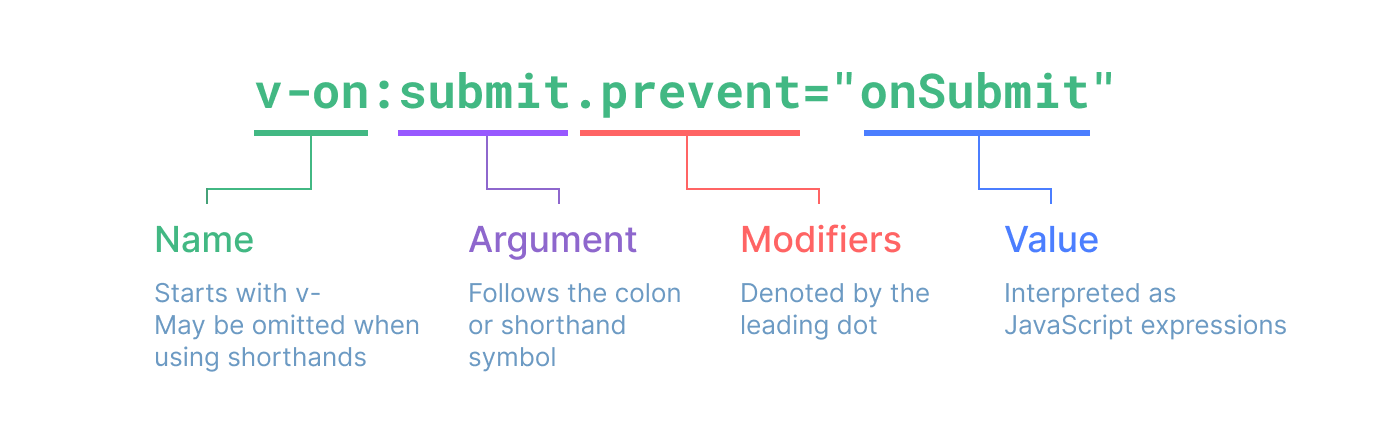
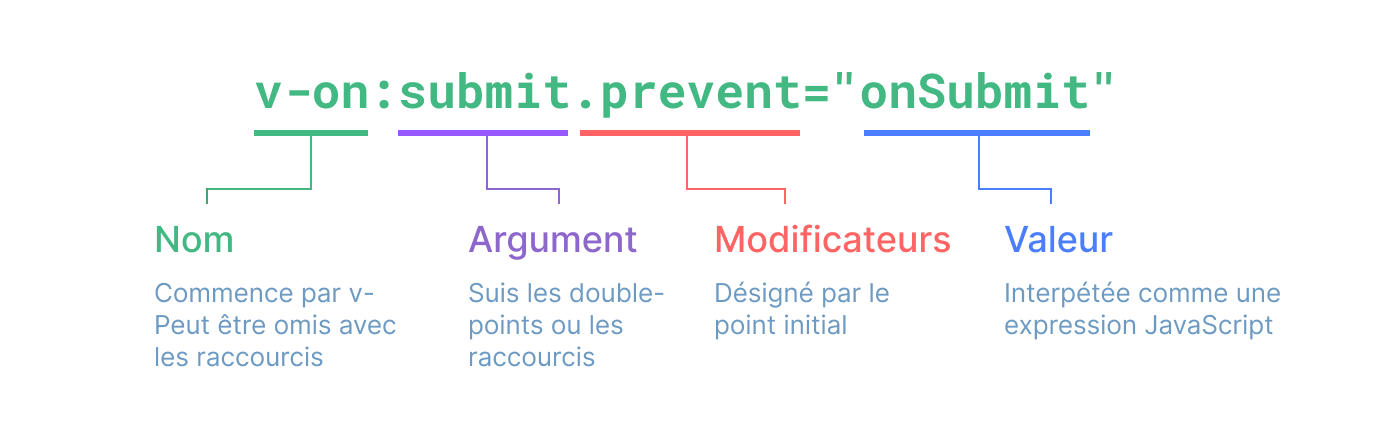
guide/essentials/template-syntax.md (#117)

diff --git a/.vitepress/config.ts b/.vitepress/config.ts
@@ -149,7 +149,7 @@ export const sidebar: ThemeConfig['sidebar'] = {
           link: '/guide/essentials/application'
         },
         {
-          text: 'Template Syntax',
+          text: 'Syntaxe de template',
           link: '/guide/essentials/template-syntax'
         },
         {

diff --git a/src/guide/essentials/template-syntax.md b/src/guide/essentials/template-syntax.md
@@ -1,90 +1,90 @@
-# Template Syntax
+# Syntaxe de template {#template-syntax}
 
-Vue uses an HTML-based template syntax that allows you to declaratively bind the rendered DOM to the underlying component instance's data. All Vue templates are syntactically valid HTML that can be parsed by spec-compliant browsers and HTML parsers.
+Vue utilise une syntaxe de template basée sur HTML pour permettre de lier de manière déclarative le DOM rendu aux données de l'instance du composant sous-jacent. Tous les templates Vue sont du HTML syntaxiquement valide qui peut être analysé par des navigateurs et des analyseurs HTML conformes aux spécifications.
 
-Under the hood, Vue compiles the templates into highly-optimized JavaScript code. Combined with the reactivity system, Vue is able to intelligently figure out the minimal number of components to re-render and apply the minimal amount of DOM manipulations when the app state changes.
+Sous le capot, Vue compile les templates en code JavaScript hautement optimisé. Combiné avec le système de réactivité, Vue est capable de déterminer intelligemment le nombre minimal de composants à restituer et d'appliquer la quantité minimale de manipulations DOM lorsque l'état de l'application change.
 
-If you are familiar with Virtual DOM concepts and prefer the raw power of JavaScript, you can also [directly write render functions](/guide/extras/render-function.html) instead of templates, with optional JSX support. However, do note that they do not enjoy the same level of compile-time optimizations as templates.
+Si vous connaissez les concepts de DOM virtuel et préférez la puissance brute de JavaScript, vous pouvez également [TODO(fr)écrire directement des fonctions de rendu](/guide/extras/render-function.html) au lieu des templates, avec en option la prise en charge de JSX. Cependant, notez qu'ils ne bénéficient pas du même niveau d'optimisation au moment de la compilation que les templates.
 
-## Text Interpolation
+## Interpolation de texte {#text-interpolation}
 
-The most basic form of data binding is text interpolation using the "Mustache" syntax (double curly braces):
+La forme la plus élémentaire de liaison de données est l'interpolation de texte à l'aide de la syntaxe "Moustache" (doubles accolades) :
 
 ```vue-html
-<span>Message: {{ msg }}</span>
+<span>Message : {{ msg }}</span>
 ```
 
-The mustache tag will be replaced with the value of the `msg` property from the corresponding component instance. It will also be updated whenever the `msg` property changes.
+La balise moustache sera remplacée par la valeur de la propriété `msg` de l'instance de composant correspondante. Il sera également mis à jour chaque fois que la propriété `msg` changera.
 
-## Raw HTML
+## HTML brut {#raw-html}
 
-The double mustaches interpret the data as plain text, not HTML. In order to output real HTML, you will need to use the [`v-html` directive](/api/built-in-directives.html#v-html):
+Les doubles moustaches interprètent les données comme du texte brut et non comme du HTML. Afin de produire du vrai HTML, vous devrez utiliser la directive [TODO(fr)`v-html`](/api/built-in-directives.html#v-html):
 
 ```vue-html
-<p>Using text interpolation: {{ rawHtml }}</p>
-<p>Using v-html directive: <span v-html="rawHtml"></span></p>
+<p>Utilisation de l'interpolation de texte : {{ htmlBrut }}</p>
+<p>Utilisation de la directive v-html : <span v-html="htmlBrut"></span></p>
 ```
 
 <script setup>
-  const rawHtml = '<span style="color: red">This should be red.</span>'
+  const htmlBrut = '<span style="color: red">Ceci doit être rouge.</span>'
 </script>
 
 <div class="demo">
-  <p>Using text interpolation: {{ rawHtml }}</p>
-  <p>Using v-html directive: <span v-html="rawHtml"></span></p>
+  <p>Utilisation de l'interpolation de texte : {{ htmlBrut }}</p>
+  <p>Utilisation de la directive v-html : <span v-html="htmlBrut"></span></p>
 </div>
 
-Here we're encountering something new. The `v-html` attribute you're seeing is called a **directive**. Directives are prefixed with `v-` to indicate that they are special attributes provided by Vue, and as you may have guessed, they apply special reactive behavior to the rendered DOM. Here, we're basically saying "keep this element's inner HTML up-to-date with the `rawHtml` property on the current active instance."
+Ici, nous rencontrons quelque chose de nouveau. L'attribut `v-html` que vous voyez s'appelle une **directive**. Les directives sont préfixées par `v-` pour indiquer qu'il s'agit d'attributs spéciaux fournis par Vue et, comme vous l'avez peut-être deviné, elles appliquent un comportement réactif spécial au DOM rendu. Ici, nous disons essentiellement "maintenir à jour le code HTML interne de cet élément avec la propriété `htmlBrut` sur l'instance active actuelle".
 
-The contents of the `span` will be replaced with the value of the `rawHtml` property, interpreted as plain HTML - data bindings are ignored. Note that you cannot use `v-html` to compose template partials, because Vue is not a string-based templating engine. Instead, components are preferred as the fundamental unit for UI reuse and composition.
+Le contenu de `span` sera remplacé par la valeur de la propriété `htmlBrut`, interprétée comme du HTML simple - les liaisons de données sont ignorées. Notez que vous ne pouvez pas utiliser `v-html` pour composer des templates partiels, car Vue n'est pas un moteur de template basé sur des chaînes de caractères. Au lieu de cela, les composants sont préférés comme unité fondamentale pour la réutilisation et la composition de l'interface utilisateur.
 
-:::warning Security Warning
-Dynamically rendering arbitrary HTML on your website can be very dangerous because it can easily lead to [XSS vulnerabilities](https://en.wikipedia.org/wiki/Cross-site_scripting). Only use `v-html` on trusted content and **never** on user-provided content.
+:::warning Avertissement de sécurité
+L'affichage dynamique de code HTML arbitraire sur votre site Web peut être très dangereux, car il peut facilement entraîner des [TODO(fr)vulnérabilités XSS](https://en.wikipedia.org/wiki/Cross-site_scripting). N'utilisez `v-html` que sur le contenu de confiance et **jamais** sur le contenu fourni par l'utilisateur.
 :::
 
-## Attribute Bindings
+## Liaisons d'attributs {#attribute-bindings}
 
-Mustaches cannot be used inside HTML attributes. Instead, use a [`v-bind` directive](/api/built-in-directives.html#v-bind):
-
-```vue-html
-<div v-bind:id="dynamicId"></div>
-```
-
-The `v-bind` directive instructs Vue to keep the element's `id` attribute in sync with the component's `dynamicId` property. If the bound value is `null` or `undefined`, then the attribute will be removed from the rendered element.
-
-### Shorthand
-
-Because `v-bind` is so commonly used, it has a dedicated shorthand syntax:
+Les moustaches ne peuvent pas être utilisées dans les attributs HTML. À la place, utilisez une directive [TODO(fr)`v-bind`](/api/built-in-directives.html#v-bind) :
 
 ```vue-html
-<div :id="dynamicId"></div>
+<div v-bind:id="idDynamique"></div>
 ```
 
-Attributes that start with `:` may look a bit different from normal HTML, but it is in fact a valid character for attribute names and all Vue-supported browsers can parse it correctly. In addition, they do not appear in the final rendered markup. The shorthand syntax is optional, but you will likely appreciate it when you learn more about its usage later.
+La directive `v-bind` demande à Vue de garder l'attribut `id` de l'élément synchronisé avec la propriété `idDynamique` du composant. Si la valeur liée est `null` ou `undefined`, alors l'attribut sera supprimé de l'élément rendu.
 
-> For the rest of the guide, we will be using the shorthand syntax in code examples, as that's the most common usage for Vue developers.
+### Raccourci {#shorthand}
 
-### Boolean Attributes
-
-[Boolean attributes](https://html.spec.whatwg.org/multipage/common-microsyntaxes.html#boolean-attributes) are attributes that can indicate true / false values by its presence on an element. For example, [`disabled`](https://developer.mozilla.org/en-US/docs/Web/HTML/Attributes/disabled) is one of the most commonly used boolean attributes.
-
-`v-bind` works a bit differently in this case:
+Parce que `v-bind` est si couramment utilisé, il a une syntaxe raccourcie :
 
 ```vue-html
-<button :disabled="isButtonDisabled">Button</button>
+<div :id="idDynamique"></div>
 ```
 
-The `disabled` attribute will be included if `isButtonDisabled` has a [truthy value](https://developer.mozilla.org/en-US/docs/Glossary/Truthy). It will also be included if the value is an empty string, maintaining consistency with `<button disabled="">`. For other [falsy values](https://developer.mozilla.org/en-US/docs/Glossary/Falsy) the attribute will be omitted.
+Les attributs commençant par `:` peuvent sembler un peu différents du HTML normal, mais il s'agit en fait d'un caractère valide pour les noms d'attributs et tous les navigateurs pris en charge par Vue peuvent l'analyser correctement. De plus, ils n'apparaissent pas dans le rendu final. La syntaxe abrégée est facultative, mais vous l'apprécierez probablement lorsque vous en apprendrez plus sur son utilisation plus tard.
 
-### Dynamically Binding Multiple Attributes
+> Pour le reste du guide, nous utiliserons la syntaxe abrégée dans les exemples de code, car c'est l'utilisation la plus courante pour les développeurs Vue.
 
-If you have a JavaScript object representing multiple attributes that looks like this:
+### Attributs booleans {#boolean-attributes}
+
+[Les attributs booléens](https://html.spec.whatwg.org/multipage/common-microsyntaxes.html#boolean-attributes) sont des attributs qui peuvent indiquer des valeurs vrai/faux par sa présence sur un élément. Par exemple, [`disabled`](https://developer.mozilla.org/fr/docs/Web/HTML/Attributes/disabled) est l'un des attributs booléens les plus couramment utilisés.
+
+`v-bind` fonctionne un peu différemment dans ce cas :
+
+```vue-html
+<button :disabled="boutonDésactivé">Bouton</button>
+```
+
+L'attribut `disabled` sera inclus si `boutonDésactivé` a une [valeur évaluée à vrai](https://developer.mozilla.org/fr/docs/Glossary/Truthy). Il sera également inclus si la valeur est une chaîne vide, en maintenant la cohérence avec `<button disabled="">`. Pour les [valeurs évaluées à faux](https://developer.mozilla.org/fr/docs/Glossary/Falsy), l'attribut sera omis.
+
+### Liaison dynamique de plusieurs attributs {#dynamically-binding-multiple-attributes}
+
+Si vous avez un objet JavaScript représentant plusieurs attributs qui ressemble à ceci :
 
 <div class="composition-api">
 
 ```js
 const objectOfAttrs = {
-  id: 'container',
+  id: 'conteneur',
   class: 'wrapper'
 }
 ```
@@ -96,7 +96,7 @@ const objectOfAttrs = {
 data() {
   return {
     objectOfAttrs: {
-      id: 'container',
+      id: 'conteneur',
       class: 'wrapper'
     }
   }
@@ -105,166 +105,166 @@ data() {
 
 </div>
 
-You can bind them to a single element by using `v-bind` without an argument:
+Vous pouvez les lier à un seul élément en utilisant `v-bind` sans argument :
 
 ```vue-html
 <div v-bind="objectOfAttrs"></div>
 ```
 
-## Using JavaScript Expressions
+## Utilisation d'expressions JavaScript {#using-javascript-expressions}
 
-So far we've only been binding to simple property keys in our templates. But Vue actually supports the full power of JavaScript expressions inside all data bindings:
+Jusqu'à présent, nous n'avons lié que des clés de propriété simples dans nos modèles. Mais Vue prend en charge toute la puissance des expressions JavaScript dans toutes les liaisons de données :
 
 ```vue-html
-{{ number + 1 }}
+{{ nombre + 1 }}
 
-{{ ok ? 'YES' : 'NO' }}
+{{ ok ? 'OUI' : 'NON' }}
 
 {{ message.split('').reverse().join('') }}
 
-<div :id="`list-${id}`"></div>
+<div :id="`liste-${id}`"></div>
 ```
 
-These expressions will be evaluated as JavaScript in the data scope of the current component instance.
+Ces expressions seront évaluées comme du JavaScript dans la portée des données de l'instance de composant actuelle.
 
-In Vue templates, JavaScript expressions can be used in the following positions:
+Dans les templates Vue, les expressions JavaScript peuvent être utilisées dans les positions suivantes :
 
-- Inside text interpolations (mustaches)
-- In the attribute value of any Vue directives (special attributes that start with `v-`)
+- Dans une Interpolation de texte (moustaches)
+- Dans la valeur d'attribut de toutes les directives Vue (attributs spéciaux qui commencent par `v-`)
 
-### Expressions Only
+### Expressions uniquement {#expressions-only}
 
-Each binding can only contain **one single expression**. An expression is a piece of code that can evaluate to a value. A simple check is whether it can be used after `return`.
+Chaque liaison ne peut contenir qu'**une seule expression**. Une expression est un morceau de code qui peut donner une valeur. Une simple vérification est de savoir si elle peut être utilisée après un `return`.
 
-Therefore, the following will **NOT** work:
+Par conséquent, ce qui suit ne fonctionnera **PAS** :
 
 ```vue-html
-<!-- this is a statement, not an expression: -->
+<!-- ceci est une déclaration, pas une expression : -->
 {{ var a = 1 }}
 
-<!-- flow control won't work either, use ternary expressions -->
+<!-- le contrôle de flux ne fonctionnera pas non plus, utiliser des expressions ternaires -->
 {{ if (ok) { return message } }}
 ```
 
-### Calling Functions
+### Appel de fonctions {#calling-functions}
 
-It is possible to call a component-exposed method inside a binding expression:
+Il est possible d'appeler une méthode exposée au composant dans une expression de liaison :
 
 ```vue-html
-<span :title="toTitleDate(date)">
-  {{ formatDate(date) }}
+<span :title="convertirEnTitre(date)">
+  {{ formatterDate(date) }}
 </span>
 ```
 
 :::tip
-Functions called inside binding expressions will be called every time the component updates, so they should **not** have any side effects, such as changing data or triggering asynchronous operations.
+Les fonctions appelées à l'intérieur des expressions de liaison seront appelées à chaque mise à jour du composant, elles ne doivent donc **pas** avoir d'effets de bord, tels que la modification de données ou le déclenchement d'opérations asynchrones.
 :::
 
-### Restricted Globals Access
+### Accès global restreint {#restricted-globals-access}
 
-Template expressions are sandboxed and only have access to a [restricted list of globals](https://github.com/vuejs/core/blob/main/packages/shared/src/globalsWhitelist.ts#L3). The list exposes commonly used built-in globals such as `Math` and `Date`.
+Les expressions de template sont en bac à sable et n'ont accès qu'à une [TODO(fr)liste restreinte de variables globales](https://github.com/vuejs/core/blob/main/packages/shared/src/globalsWhitelist.ts#L3). La liste expose les variables globales intégrées couramment utilisées telles que "Math" et "Date".
 
-Globals not explicitly included in the list, for example user-attached properties on `window`, will not be accessible in template expressions. You can, however, explicitly define additional globals for all Vue expressions by adding them to [`app.config.globalProperties`](/api/application.html#app-config-globalproperties).
+Les variables globales non explicitement incluses dans la liste, par exemple les propriétés jointes par l'utilisateur sur `window`, ne seront pas accessibles dans les expressions du template. Vous pouvez cependant définir explicitement des variables globales supplémentaires pour toutes les expressions Vue en les ajoutant à [TODO(fr)`app.config.globalProperties`](/api/application.html#app-config-globalproperties).
 
-## Directives
+## Directives {#directives}
 
-Directives are special attributes with the `v-` prefix. Vue provides a number of [built-in directives](/api/built-in-directives.html), including `v-html` and `v-bind` which we have introduced above.
+Les directives sont des attributes spéciaux avec pour préfixe `v-`. Vue propose un certain nombre de [directives clé-en-main](/api/built-in-directives.html), dont `v-html` et `v-bind` que nous venons d'introduire précédement.
 
-Directive attribute values are expected to be single JavaScript expressions (with the exception of `v-for`, `v-on` and `v-slot`, which will be discussed in their respective sections later). A directive's job is to reactively apply updates to the DOM when the value of its expression changes. Take [`v-if`](/api/built-in-directives.html#v-if) as an example:
+Les valeurs attendues dans les directives sont une seule expression JavaScript (à l'exception de `v-for`, `v-on` et `v-slot`, que l'on présentera dans leur section respective). Le travail d'une directive est d'appliquer les changements au DOM en réaction des changements de la valeur de son expression. Prenez [`v-if`](/api/built-in-directives.html#v-if) comme exemple :
 
 ```vue-html
-<p v-if="seen">Now you see me</p>
+<p v-if="vu">Maintenant, tu me vois</p>
 ```
 
-Here, the `v-if` directive would remove / insert the `<p>` element based on the truthiness of the value of the expression `seen`.
+Ici, la directive `v-if` va supprimer/insérer l'élément `<p>` selon la valeur booléenne de l'expression `vu`.
 
-### Arguments
+### Arguments {#arguments}
 
-Some directives can take an "argument", denoted by a colon after the directive name. For example, the `v-bind` directive is used to reactively update an HTML attribute:
+Certaines directives peuvent prendre un "argument", distingué par un double-point après le nom de la directive. Par exemple, la directive `v-bind` est utilisé pour mettre à jour par réaction un attribute HTML :
 
 ```vue-html
 <a v-bind:href="url"> ... </a>
 
-<!-- shorthand -->
+<!-- raccourci -->
 <a :href="url"> ... </a>
 ```
 
-Here `href` is the argument, which tells the `v-bind` directive to bind the element's `href` attribute to the value of the expression `url`. In the shorthand, everything before the argument (i.e. `v-bind:`) is condensed into a single character, `:`.
+Ici `href` est l'argument, qui sugère à la directive `v-bind` de lier l'attribut `href` de l'élément à l'expression `url`. Par un raccourci, tout ce qui se trouve avant l'argument (pour `v-bind:`) est condensé au simple caractère `:`.
 
-Another example is the `v-on` directive, which listens to DOM events:
+Autre exemple avec la directive `v-on`, qui écoute les événements du DOM :
 
 ```vue-html
 <a v-on:click="doSomething"> ... </a>
 
-<!-- shorthand -->
+<!-- raccourci -->
 <a @click="doSomething"> ... </a>
 ```
 
-Here the argument is the event name to listen to: `click`. `v-on` has a corresponding shorthand, namely the `@` character. We will talk about event handling in more detail too.
+Ici l'argument est le nom de l'événement à écouter: `click`. `v-on` a un raccourci dédié, le caractère `@`. Nous en parlerons également en détail sur la gestion de événements.
 
-### Dynamic Arguments
+### Arguments dynamiques {#dynamic-arguments}
 
-It is also possible to use a JavaScript expression in a directive argument by wrapping it with square brackets:
+Il est également possible d'utiliser une expression JavaScript dans l'argument d'une directive en l'entourant de crochets :
 
 ```vue-html
 <!--
-Note that there are some constraints to the argument expression,
-as explained in the "Dynamic Argument Value Constraints" and "Dynamic Argument Syntax Constraints" sections below.
+Notez qu'il y a quelques contraintes sur l'expression de l'argument,
+comme expliqué dans les sections "Contraintes de valeur des arguments dynamiques" et "Contraintes de syntaxe des arguments dynamiques" ci-dessous.
 -->
 <a v-bind:[attributeName]="url"> ... </a>
 
-<!-- shorthand -->
+<!-- raccourci -->
 <a :[attributeName]="url"> ... </a>
 ```
 
-Here `attributeName` will be dynamically evaluated as a JavaScript expression, and its evaluated value will be used as the final value for the argument. For example, if your component instance has a data property, `attributeName`, whose value is `"href"`, then this binding will be equivalent to `v-bind:href`.
+Ici `attributeName` sera dynamiquement évalué comme une expression JavaScript, et sa valeur évaluée sera utilisé comme valeur finale pour l'argument. Par exemple, si l'instance du composant a une propriété, `attributeName`, et que sa valeur est `"href"`, alors la liaison sera équivalent à `v-bind:href`.
 
-Similarly, you can use dynamic arguments to bind a handler to a dynamic event name:
+De manière similaire, vous pouvez utilise des arguments dynamiques pour lier un gestionnaire à un nom d'événement dynamique :
 
 ```vue-html
 <a v-on:[eventName]="doSomething"> ... </a>
 
-<!-- shorthand -->
+<!-- raccourci -->
 <a @[eventName]="doSomething">
 ```
 
-In this example, when `eventName`'s value is `"focus"`, `v-on:[eventName]` will be equivalent to `v-on:focus`.
+Dans cet exemple, quand la valeur de `eventName` est `"focus"`, `v-on:[eventName]` sera équivalent à `v-on:focus`.
 
-#### Dynamic Argument Value Constraints
+#### Contraintes de valeur des arguments dynamiques {#dynamic-argument-value-constraints}
 
-Dynamic arguments are expected to evaluate to a string, with the exception of `null`. The special value `null` can be used to explicitly remove the binding. Any other non-string value will trigger a warning.
+Les arguments dynamiques sont prévus pour être évalués en une chaîne de caractères, avec `null` pour exception. La valeur spéciale `null` peut être utilisée pour supprimer explicitement la liaison. Toute autre valeur non-chaînée déclenchera un warning.
 
-#### Dynamic Argument Syntax Constraints
+#### Contraintes de syntaxe des arguments dynamiques {#dynamic-argument-syntax-constraints}
 
-Dynamic argument expressions have some syntax constraints because certain characters, such as spaces and quotes, are invalid inside HTML attribute names. For example, the following is invalid:
+Les expressions d'argument dynamique ont quelques contraintes syntaxique à cause de certains caractères, comme les espaces et les guillemets, qui sont invalides pour des noms d'attributs HTML:
 
 ```vue-html
-<!-- This will trigger a compiler warning. -->
+<!-- Ceci va déclencher un warning du compilateur. -->
 <a :['foo' + bar]="value"> ... </a>
 ```
 
-If you need to pass a complex dynamic argument, it's probably better to use a [computed property](./computed.html), which we will cover shortly.
+Si vous devez passer un argument dynamique complexe, il est probablement préférable d'utiliser une [propriété calculée](./computed.html), que nous aborderons sous peu.
 
-When using in-DOM templates (templates directly written in an HTML file), you should also avoid naming keys with uppercase characters, as browsers will coerce attribute names into lowercase:
+Lorsque vous utilisez des templates dans le DOM (templates directement écrits dans un fichier HTML), vous devez également éviter de nommer les clés avec des caractères majuscules, car les navigateurs contraindront les noms d'attributs en minuscules :
 
 ```vue-html
 <a :[someAttr]="value"> ... </a>
 ```
 
-The above will be converted to `:[someattr]` in in-DOM templates. If your component has a `someAttr` property instead of `someattr`, your code won't work. Templates inside Single-File Components are **not** subject to this constraint.
+Ci-dessus sera converti en `:[someattr]` dans les templates dans le DOM. Si votre composant a une propriété `someAttr` au lieu de `someattr`, votre code ne fonctionnera pas. Les modèles à l'intérieur des composants à fichier unique ne sont **pas** soumis à cette contrainte.
 
-### Modifiers
+### Modificateurs {#modifiers}
 
-Modifiers are special postfixes denoted by a dot, which indicate that a directive should be bound in some special way. For example, the `.prevent` modifier tells the `v-on` directive to call `event.preventDefault()` on the triggered event:
+Les modificateurs sont des suffixes spéciaux désignés par un point, qui indiquent qu'une directive doit être liée d'une manière spéciale. Par exemple, le modificateur `.prevent` indique à la directive `v-on` d'appeler `event.preventDefault()` sur l'événement déclenché :
 
 ```vue-html
 <form @submit.prevent="onSubmit">...</form>
 ```
 
-You'll see other examples of modifiers later, [for `v-on`](./event-handling.html#event-modifiers) and [for `v-model`](./forms.html#modifiers), when we explore those features.
+Vous verrez d'autres exemples de modificateurs plus tard, [TODO(fr)pour `v-on`](./event-handling.html#event-modifiers) et [TODO(fr)pour `v-model`](./forms.html#modifiers), lorsque nous explorons ces fonctionnalités.
 
-And finally, here's the full directive syntax visualized:
+Et enfin, voici la syntaxe complète de la directive visualisée :
 
-![directive syntax graph](./images/directive.png)
+![graphique de syntaxe de directive](./images/directive.png)
 
-<!-- https://www.figma.com/file/BGWUknIrtY9HOmbmad0vFr/Directive -->
+<!-- https://www.figma.com/file/lxB7KSd8uTdSMIWS70c4L2/Directive -->

diff --git a/src/tutorial/src/step-3/description.md b/src/tutorial/src/step-3/description.md
@@ -6,7 +6,7 @@ In Vue, mustaches are only used for text interpolation. To bind an attribute to 
 <div v-bind:id="dynamicId"></div>
 ```
 
-A **directive** is a special attribute that starts with the `v-` prefix. They are part of Vue's template syntax. Similar to text interpolations, directive values are JavaScript expressions that have access to the component's state. The full details of `v-bind` and directive syntax are discussed in <a target="_blank" href="/guide/essentials/template-syntax.html">Guide - Template Syntax</a>.
+A **directive** is a special attribute that starts with the `v-` prefix. They are part of Vue's template syntax. Similar to text interpolations, directive values are JavaScript expressions that have access to the component's state. The full details of `v-bind` and directive syntax are discussed in <a target="_blank" href="/guide/essentials/template-syntax.html">Guide - Syntaxe de Template</a>.
 
 The part after the colon (`:id`) is the "argument" of the directive. Here, the element's `id` attribute will be synced with the `dynamicId` property from the component's state.
 
